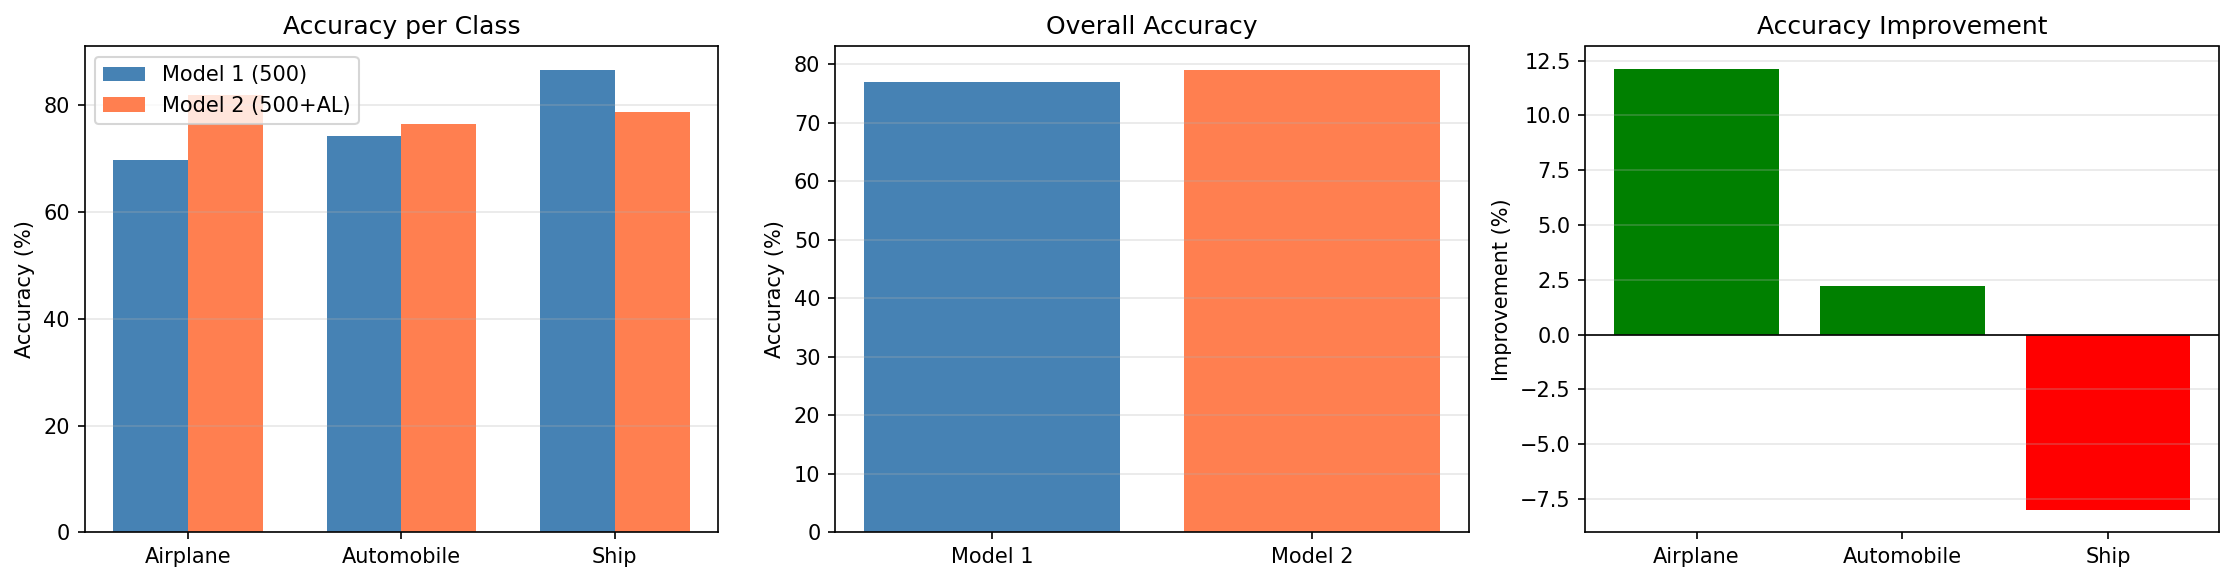
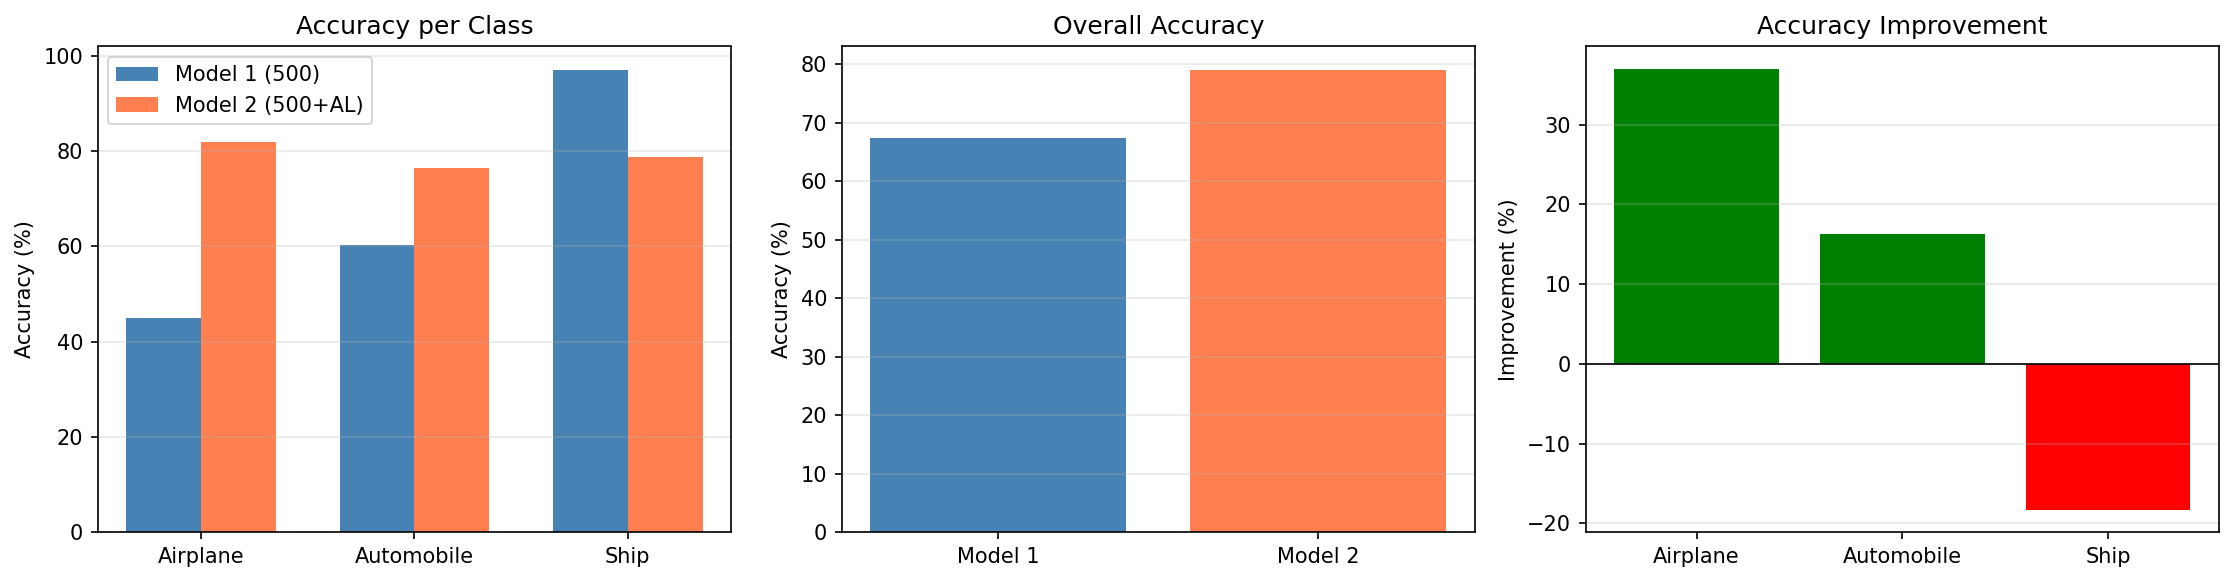
model comparison updt

diff --git a/train_random_data.py b/train_random_data.py
@@ -1,0 +1,26 @@
+import numpy as np
+from train import train_model
+
+# Generar 192 índices aleatorios (excluyendo las primeras 500)
+np.random.seed(42)
+random_indices = np.random.choice(range(501, 5000), size=192, replace=False)
+
+print("="*60)
+print("TRAINING MODEL WITH 500 + 192 RANDOM IMAGES")
+print("="*60)
+print(f"Random indices selected: {len(random_indices)}")
+print(f"Total training images: 692")
+print()
+
+# Entrenar modelo con índices aleatorios
+model, history = train_model(
+    additional_indices=random_indices,
+    output_dir='models/700_random_train',
+    verbose=True
+)
+
+print("\n" + "="*60)
+print("TRAINING COMPLETED")
+print("="*60)
+print("Model saved: models/700_random_train/best_model.keras")
+print("Plot saved: models/700_random_train/training_history.png")

diff --git a/models/models_compare.py b/models/models_compare.py
@@ -35,7 +35,7 @@ test_labels = np.array(test_labels)
 print(f"Test set: {len(test_images)} images ({IMAGES_PER_CLASS} per class)")
 
 # Cargar modelos
-model1 = keras.models.load_model('500_train/best_model.keras')
+model1 = keras.models.load_model('700_random_train/best_model.keras')
 model2 = keras.models.load_model('700_train/best_model.keras')
 
 # Predecir
